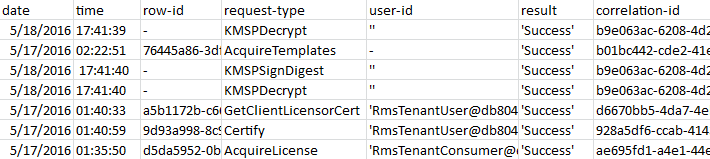
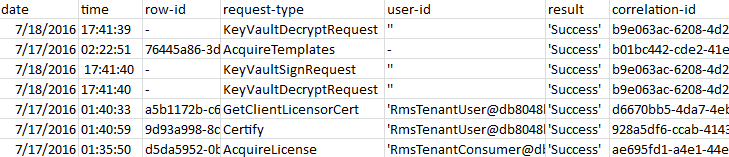
update screenshot of usage logging & intro description

diff --git a/Azure-RMSDocs/plan-design/plan-implement-tenant-key.md b/Azure-RMSDocs/plan-design/plan-implement-tenant-key.md
@@ -6,7 +6,7 @@ description:
 keywords:
 author: cabailey
 manager: mbaldwin
-ms.date: 07/12/2016
+ms.date: 07/18/2016
 ms.topic: article
 ms.prod: azure
 ms.service: rights-management
@@ -129,7 +129,7 @@ Now that you've planned for and if necessary, generated your tenant key, do the 
 
 2.  Consider using usage logging, which logs every transaction that Azure Rights Management performs.
 
-    If you decided to manage your own tenant key, logging includes information about using your tenant key. See the following snippet from a log file displayed in Excel where the **KMSPDecrypt** and **KMSPSignDigest** request types show that the tenant key is being used.
+    If you decided to manage your own tenant key, logging includes information about using your tenant key. See the following snippet from a log file displayed in Excel where the **KeyVaultDecryptRequest** and **KeyVaultSignRequest** request types show that the tenant key is being used.
 
     ![log file in Excel where tenant key is being used](../media/RMS_Logging.png)
 
